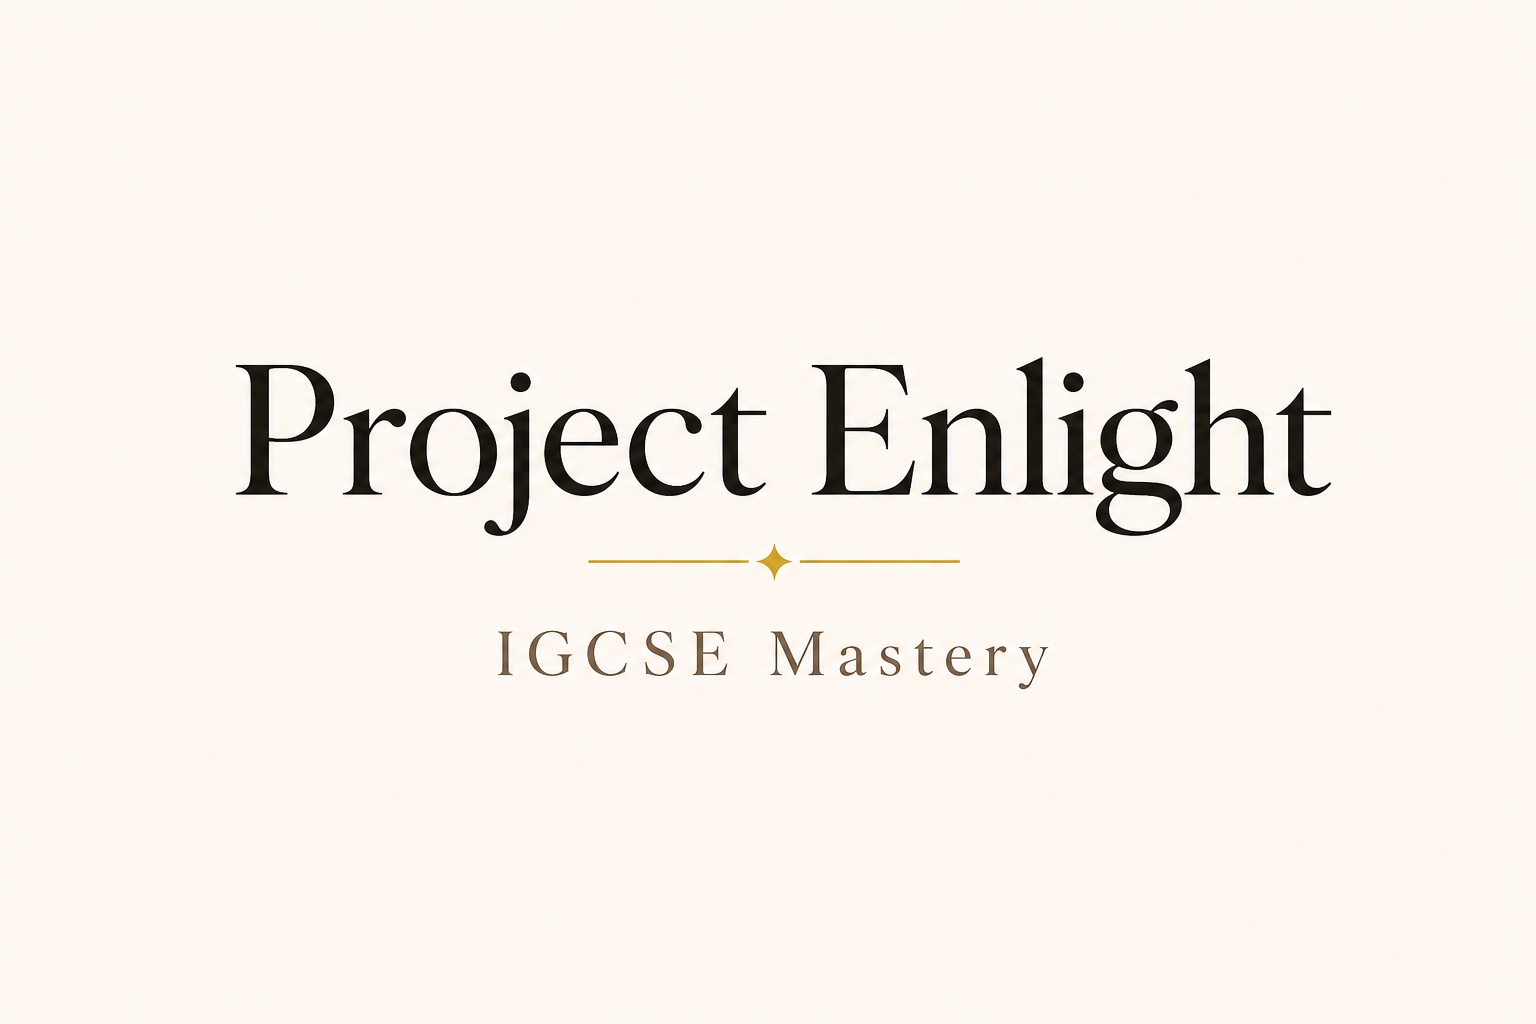
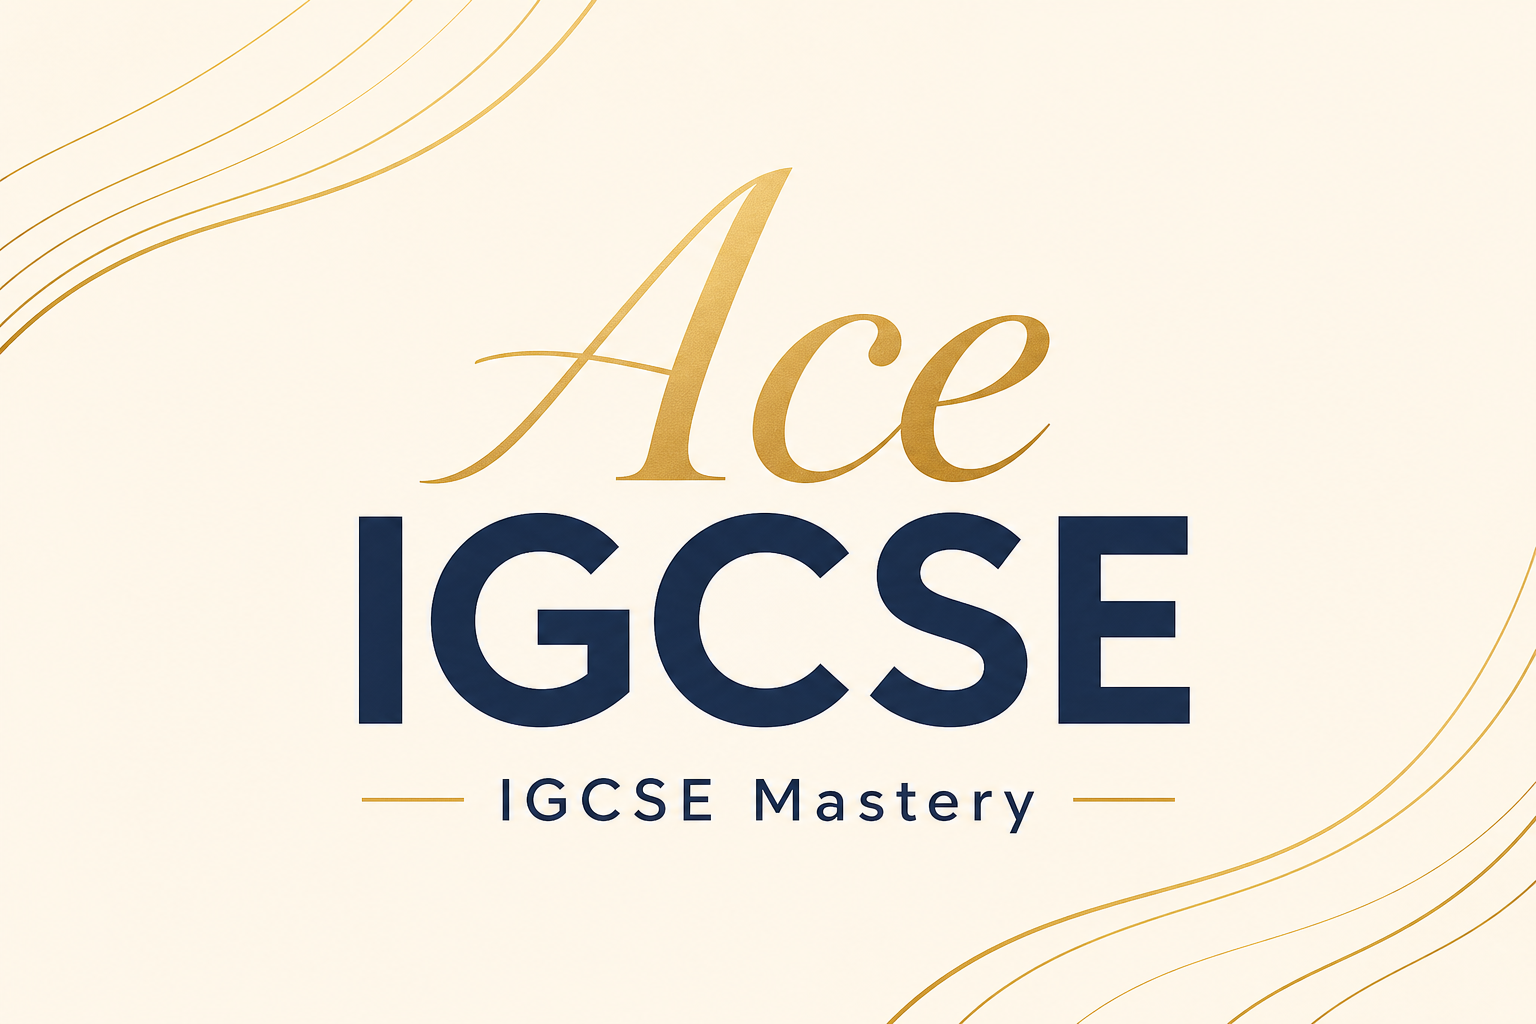
Rebrand Project Enlight to AceIGCSE after partner fallout.
Update user-facing copy, favicon, docs, and aceigcse.com placeholders; remove partnership marketing copy.

diff --git a/src/pages/marketing/AboutPage.tsx b/src/pages/marketing/AboutPage.tsx
@@ -4,9 +4,9 @@ export function AboutPage() {
   return (
     <div className="enlight-container enlight-page-padding enlight-marketing-page">
       <EnlightSectionLabel>About</EnlightSectionLabel>
-      <h1 className="enlight-heading-serif">Project Enlight</h1>
+      <h1 className="enlight-heading-serif">AceIGCSE</h1>
       <p className="enlight-body-text enlight-marketing-page__lead">
-        Project Enlight is an IGCSE revision platform built by students, for students. We focus on
+        AceIGCSE is an IGCSE revision platform built by students, for students. We focus on
         understanding over memorisation — with tools that make abstract maths and physics tangible.
       </p>
       <div className="enlight-marketing-prose">
@@ -15,12 +15,6 @@ export function AboutPage() {
           Too many revision sites dump textbook content online and call it done. We compress syllabus
           notes into exam-ready cards, pair them with clear graphs and diagrams, and use tiered
           quizzes so you know exactly where you stand before the real exam.
-        </p>
-        <h2 className="enlight-heading-serif">Partnerships</h2>
-        <p className="enlight-body-text">
-          We&apos;re exploring partnerships with schools and tutoring centres to bring Enlight to
-          classrooms. If you&apos;re interested in a pilot or content collaboration, reach out through
-          your school&apos;s admin channel.
         </p>
         <h2 className="enlight-heading-serif">Syllabus coverage</h2>
         <p className="enlight-body-text">

diff --git a/src/pages/marketing/MarketingWalkthrough.tsx b/src/pages/marketing/MarketingWalkthrough.tsx
@@ -191,7 +191,7 @@ function NotesStep({ onBack, onNext }: { onBack: () => void; onNext: () => void 
           </p>
         </header>
 
-        <TourBrowserMock url="projectenlight.com/lesson" className="enlight-tour-browser--lesson">
+        <TourBrowserMock url="aceigcse.com/lesson" className="enlight-tour-browser--lesson">
           <div className="enlight-showcase-note enlight-showcase-note--embedded">
             <ShowcaseLessonBar
               chapterTitle={chapter?.title ?? 'Graphs'}
@@ -283,7 +283,7 @@ function AboutStep({ onBack, onNext }: { onBack: () => void; onNext: () => void 
           <p className="enlight-tour-section__label">About</p>
           <h2 className="enlight-tour-section__title">Built by students, for students.</h2>
           <p className="enlight-tour-lead enlight-tour-lead--left">
-            Project Enlight compresses syllabus content into exam-ready cards, pairs them with clear
+            AceIGCSE compresses syllabus content into exam-ready cards, pairs them with clear
             graphs and diagrams, and uses tiered quizzes so you know exactly where you stand.
           </p>
         </header>
@@ -301,10 +301,6 @@ function AboutStep({ onBack, onNext }: { onBack: () => void; onNext: () => void 
             </li>
           ))}
         </ul>
-
-        <p className="enlight-tour-about__footnote">
-          Exploring school and tutoring partnerships — reach out through your admin channel.
-        </p>
       </div>
 
       <WalkthroughNav step={4} onBack={onBack} onNext={onNext} nextLabel="Next — leaderboard →" />

diff --git a/index.html b/index.html
@@ -5,11 +5,11 @@
     <link rel="icon" type="image/png" href="/favicon.png" />
     <link rel="apple-touch-icon" href="/favicon.png" />
     <meta name="viewport" content="width=device-width, initial-scale=1.0" />
-    <meta property="og:title" content="Project Enlight — IGCSE Mastery" />
+    <meta property="og:title" content="AceIGCSE — IGCSE Mastery" />
     <meta property="og:description" content="Interactive notes, quizzes, and progress tracking for IGCSE students." />
     <meta property="og:image" content="/og-preview.png" />
-    <meta property="og:url" content="https://notes.projectenlight.my" />
-    <title>Project Enlight — IGCSE Mastery</title>
+    <meta property="og:url" content="https://aceigcse.com" />
+    <title>AceIGCSE — IGCSE Mastery</title>
     <link rel="preconnect" href="https://fonts.googleapis.com" />
     <link rel="preconnect" href="https://fonts.gstatic.com" crossorigin />
     <link

diff --git a/src/lib/brand.ts b/src/lib/brand.ts
@@ -1,0 +1,6 @@
+export const BRAND = {
+  full: 'AceIGCSE',
+  short: 'Ace',
+  tagline: 'IGCSE Mastery',
+  siteTitle: 'AceIGCSE — IGCSE Mastery',
+} as const

diff --git a/src/components/EnlightHeader.tsx b/src/components/EnlightHeader.tsx
@@ -80,8 +80,8 @@ export function EnlightHeader() {
       <div className="enlight-header__inner">
         <Link to={user ? '/dashboard' : '/'} className="enlight-header__brand">
           <h1 className="enlight-header__logo">
-            <span className="enlight-header__logo-full">Project Enlight</span>
-            <span className="enlight-header__logo-short">Enlight</span>
+            <span className="enlight-header__logo-full">AceIGCSE</span>
+            <span className="enlight-header__logo-short">Ace</span>
           </h1>
           <span className="enlight-badge enlight-badge--gold">IGCSE</span>
         </Link>

diff --git a/src/pages/ProfilePage.tsx b/src/pages/ProfilePage.tsx
@@ -83,7 +83,7 @@ export function ProfilePage() {
   }
 
   const handleShare = () => {
-    void navigator.clipboard.writeText(`Study with me on Project Enlight! Friend code: ${friendCode}`)
+    void navigator.clipboard.writeText(`Study with me on AceIGCSE! Friend code: ${friendCode}`)
     setMessage('Link copied!')
   }
 
@@ -275,7 +275,7 @@ export function ProfilePage() {
 
         <EnlightButton to="/social" variant="outline">← Social</EnlightButton>
       </div>
-      <footer className="enlight-footer">© {new Date().getFullYear()} Project Enlight</footer>
+      <footer className="enlight-footer">© {new Date().getFullYear()} AceIGCSE</footer>
     </div>
   )
 }

diff --git a/src/pages/marketing/MarketingLayout.tsx b/src/pages/marketing/MarketingLayout.tsx
@@ -11,7 +11,7 @@ export function MarketingLayout() {
         <div className="enlight-header__inner">
           <Link to="/" className="enlight-header__brand">
             <h1 className="enlight-header__logo">
-              <span className="enlight-header__logo-full">Project Enlight</span>
+              <span className="enlight-header__logo-full">AceIGCSE</span>
             </h1>
             <span className="enlight-badge enlight-badge--gold">IGCSE</span>
           </Link>
@@ -30,7 +30,7 @@ export function MarketingLayout() {
         </div>
       </header>
       <Outlet />
-      <footer className="enlight-footer">© {new Date().getFullYear()} Project Enlight</footer>
+      <footer className="enlight-footer">© {new Date().getFullYear()} AceIGCSE</footer>
     </div>
   )
 }

diff --git a/src/hooks/usePageTitle.ts b/src/hooks/usePageTitle.ts
@@ -1,6 +1,7 @@
 import { useEffect } from 'react'
+import { BRAND } from '@/lib/brand'
 
-const SITE = 'Project Enlight'
+const SITE = BRAND.full
 
 export function usePageTitle(pageTitle: string) {
   useEffect(() => {

diff --git a/src/components/CookieConsentBanner.tsx b/src/components/CookieConsentBanner.tsx
@@ -21,7 +21,7 @@ export function CookieConsentBanner() {
   return (
     <div className="enlight-cookie-banner" role="dialog" aria-label="Cookie preferences">
       <p className="enlight-cookie-banner__text">
-        We use anonymous analytics to improve Project Enlight. No personal study data is sold or shared.
+        We use anonymous analytics to improve AceIGCSE. No personal study data is sold or shared.
       </p>
       <div className="enlight-cookie-banner__actions">
         <button type="button" className="enlight-cookie-banner__accept" onClick={accept}>

diff --git a/src/features/feedback/ReviewPromptModal.tsx b/src/features/feedback/ReviewPromptModal.tsx
@@ -85,7 +85,7 @@ export function ReviewPromptModal() {
     <div className="enlight-popout-overlay" role="dialog" aria-modal="true" aria-labelledby="review-prompt-title">
       <div className="enlight-popout enlight-popout--card enlight-review-prompt">
         <h2 id="review-prompt-title" className="enlight-heading-serif">
-          How is Project Enlight?
+          How is AceIGCSE?
         </h2>
         <p className="enlight-body-text">
           You have been studying for a while — we would love a quick rating out of 5 stars and an optional comment.

diff --git a/src/features/onboarding/AppTour.tsx b/src/features/onboarding/AppTour.tsx
@@ -20,7 +20,7 @@ const TOUR_STEPS: TourStep[] = [
   {
     id: 'welcome',
     route: '/dashboard',
-    title: 'Welcome to Project Enlight',
+    title: 'Welcome to AceIGCSE',
     body: 'Let us show you where everything lives — dashboard, subjects, social, and more. Takes about a minute.',
     placement: 'center',
   },

diff --git a/src/features/onboarding/OnboardingModal.tsx b/src/features/onboarding/OnboardingModal.tsx
@@ -42,7 +42,7 @@ export function OnboardingModal() {
       <div className="enlight-popout enlight-popout--card enlight-onboarding">
         {step === 0 && (
           <>
-            <h2 className="enlight-heading-serif">Welcome to Project Enlight</h2>
+            <h2 className="enlight-heading-serif">Welcome to AceIGCSE</h2>
             <p className="enlight-body-text">Pick a display name for leaderboards and friend lists.</p>
             <input
               className="enlight-profile-form__input"